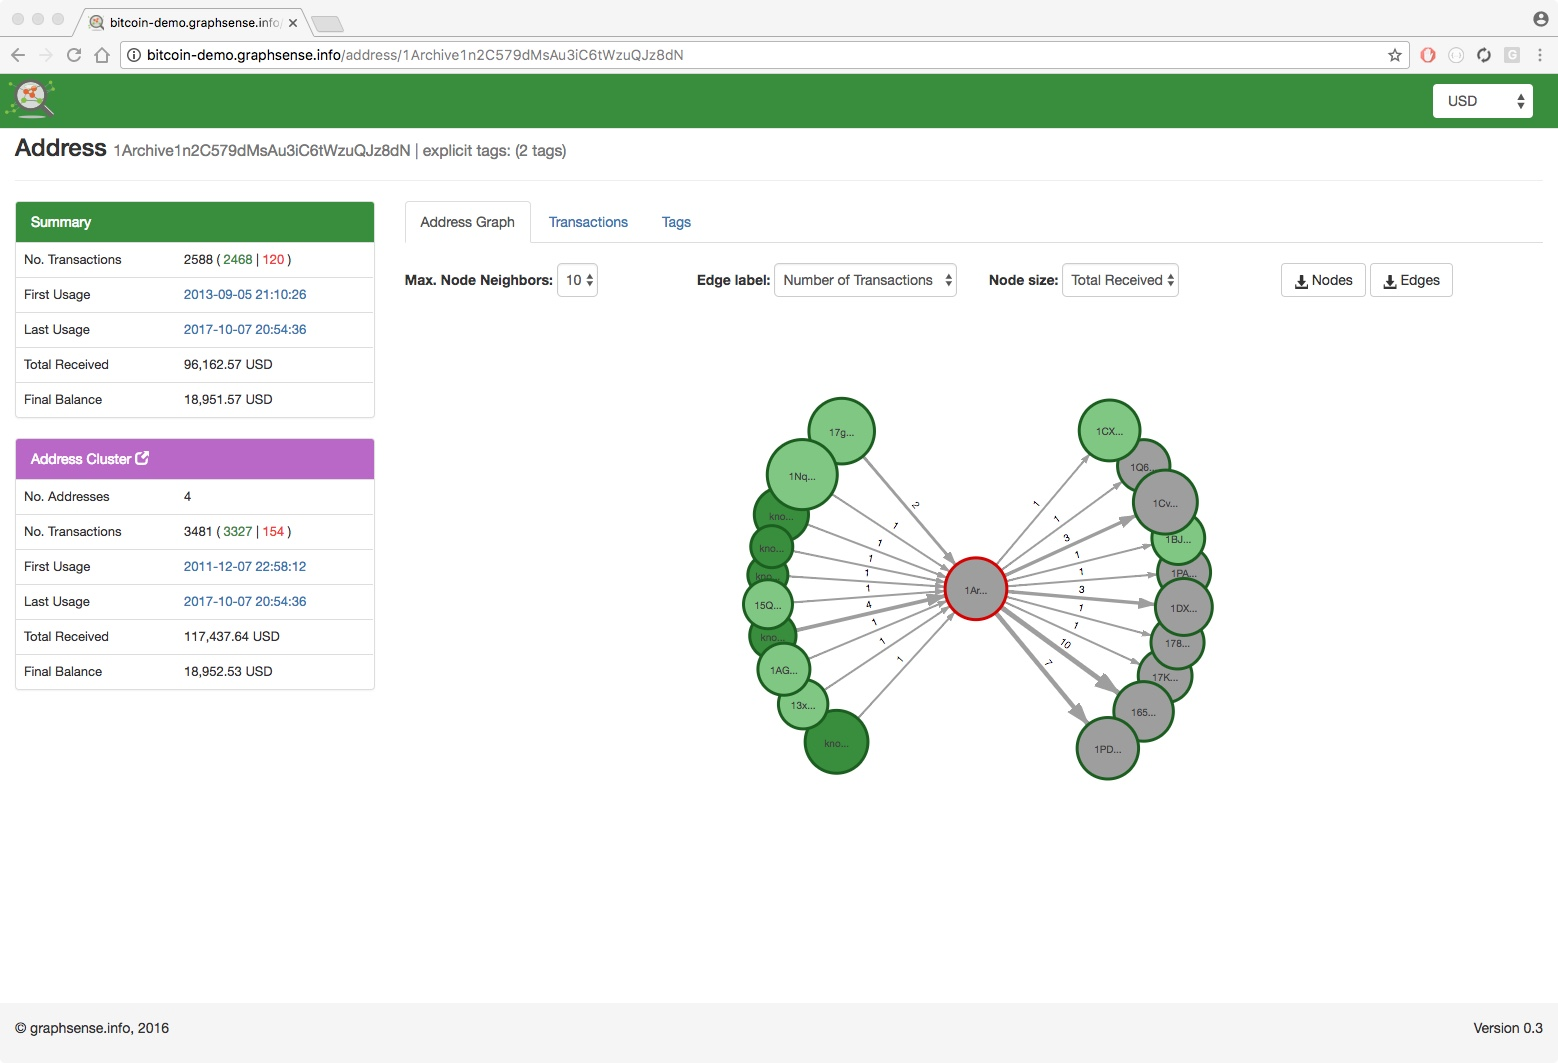
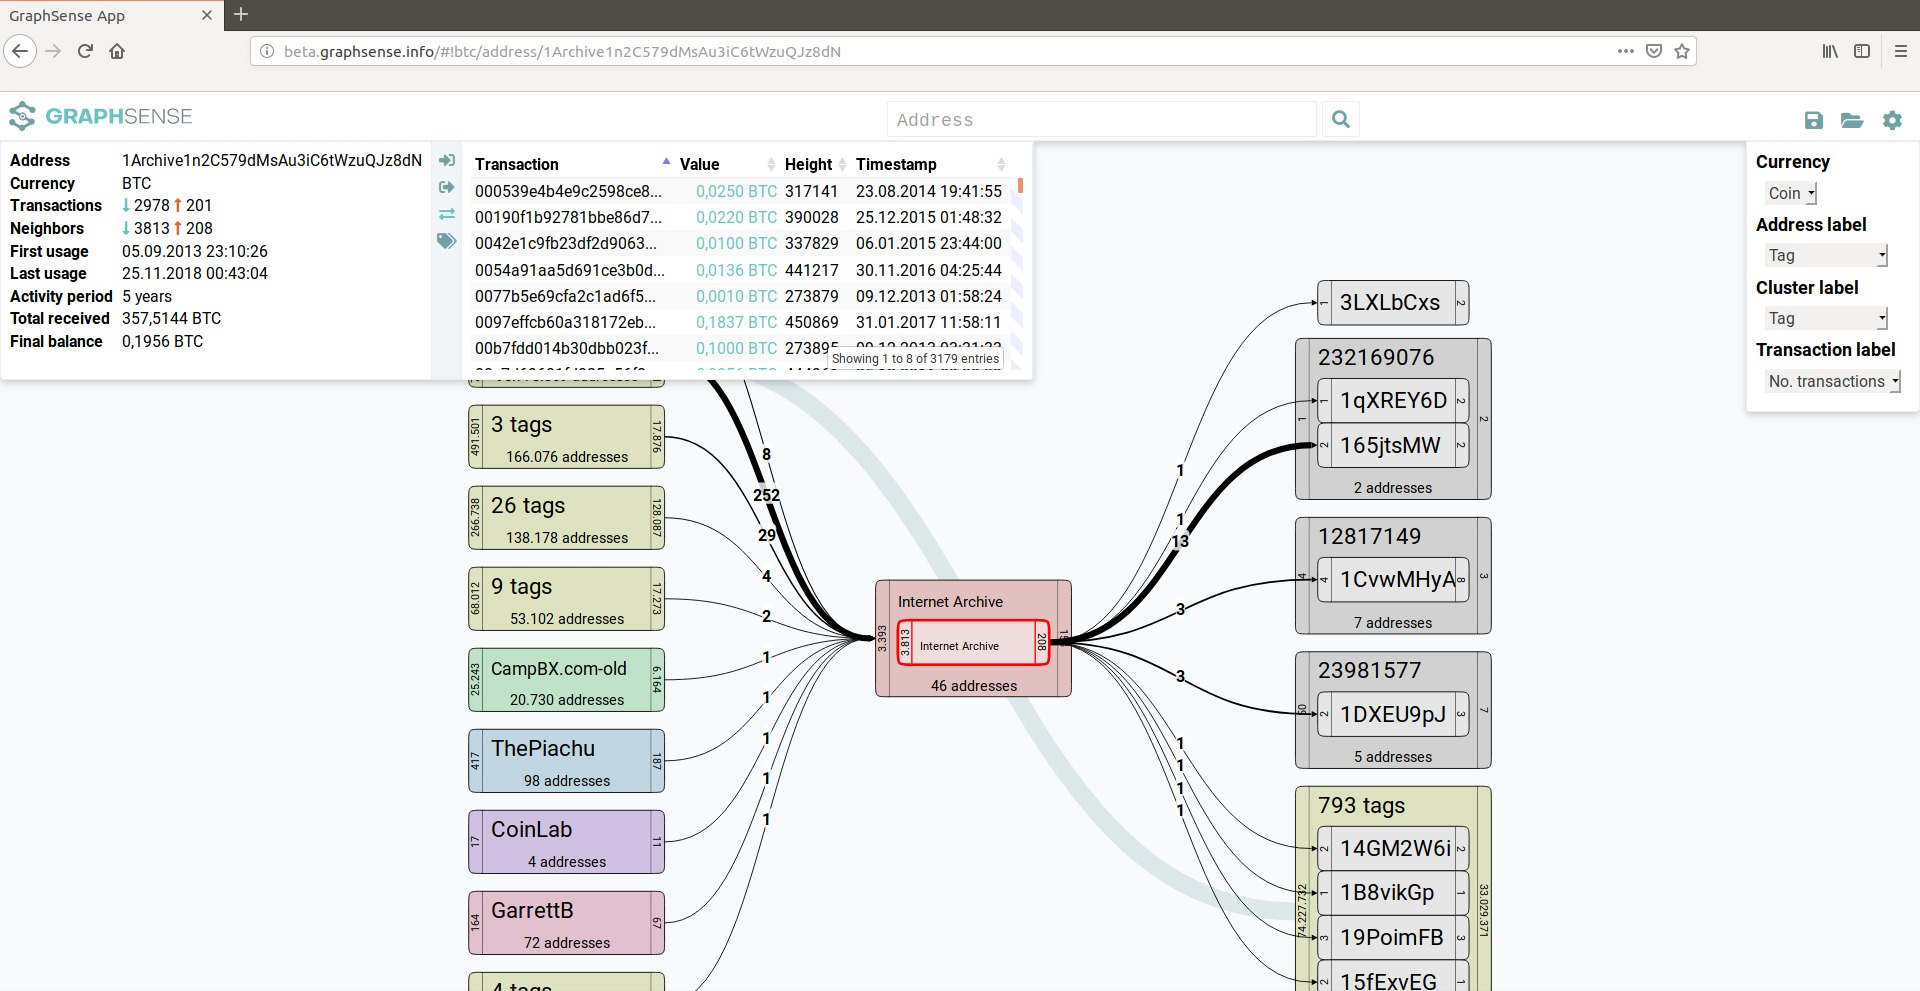
add screenshot and fix typos

diff --git a/src/pages/static/officialpage.html b/src/pages/static/officialpage.html
@@ -21,7 +21,7 @@
     </li>
 
     <li>
-      <p><strong>Macroscopic Analysis</strong>: by directly accessing the underlying, pre-computed database it is possible to map real-world phenonema (e.g., Ransomware) onto network abstractions and run subsequent analytics tasks.</p>
+      <p><strong>Macroscopic Analysis</strong>: by directly accessing the underlying, pre-computed database it is possible to map real-world phenomena (e.g., Ransomware) onto network abstractions and run subsequent analytics tasks.</p>
     </li>
 
     <li>
@@ -44,7 +44,7 @@
 
   <ul>
     <li>
-      <p><a href="https://github.com/graphsense/btc-client">btc-client</a>, <a href="https://github.com/graphsense/bch-client">bch-client</a>, <a href="https://github.com/graphsense/ltc-client">ltc-client</a>, <a href="https://github.com/graphsense/zec-client">zec-client</a>: docker containers encapsuling the most-recent cryptocurrency client versions</p>
+      <p><a href="https://github.com/graphsense/btc-client">btc-client</a>, <a href="https://github.com/graphsense/bch-client">bch-client</a>, <a href="https://github.com/graphsense/ltc-client">ltc-client</a>, <a href="https://github.com/graphsense/zec-client">zec-client</a>: docker containers encapsulating the most-recent cryptocurrency client versions</p>
     </li>
     <li>
       <p><a href="https://github.com/graphsense/graphsense-blocksci">graphsense-blocksci</a>: a dockerized component to synchronize BlockSci data to Apache Cassandra</p>
@@ -98,6 +98,6 @@
     <li>Rainer Stütz</li>
     <li>Mihai Bartha</li>
     <li>Roman Karl</li>
-    <li>Matteo Romiti</li>
+    <li><a href="https://matteoromiti.github.com/">Matteo Romiti</a></li>
   </ul>
 </div>

diff --git a/src/pages/static/about.html b/src/pages/static/about.html
@@ -1,8 +1,8 @@
-<p>GraphSense is cryptocurrency analytics research platfrom, developed under the leadership of the Austrian Institute of Technology, with funding from the Austrian Research Promotion Agency's KIRAS program (Project <a href="http://virtcrime-project.info/">VIRTCRIME</a>) and the European Union's Horizon 2020 research innovation program (Project <a href="https://titanium-project.eu/" target="_blank">TITANIUM</a>).</p>
+<p>GraphSense is cryptocurrency analytics research platform, developed under the leadership of the Austrian Institute of Technology, with funding from the Austrian Research Promotion Agency's KIRAS program (Project <a href="http://virtcrime-project.info/">VIRTCRIME</a>) and the European Union's Horizon 2020 research innovation program (Project <a href="https://titanium-project.eu/" target="_blank">TITANIUM</a>).</p>
 
 <p>GraphSense is provided as Open Source software, under the terms of the MIT license. It can be downloaded free of charge for self-hosting from our GitHub repository.</p>
 
-<p>The Austrian Institute of Technlogy offers free access to a hosted version of the software at demo.graphsense.info and beta.graphsense.info in the spirit of open source and as an act of collegiality. Please refer to our Terms and Conditions of Use for information.</p>
+<p>The Austrian Institute of Technology offers free access to a hosted version of the software at demo.graphsense.info and beta.graphsense.info in the spirit of open source and as an act of collegiality. Please refer to our Terms and Conditions of Use for information.</p>
 
 <h2>Imprint</h2>
 

diff --git a/src/pages/static/privacy.html b/src/pages/static/privacy.html
@@ -5,7 +5,7 @@
 
 <h2>Site Visit Tracking</h2>
 
-<p>Like most Websites, the graphsense.info site tracks site visits to determine the number of people visiting our pages. Although we record data such as device, internet browser and operating system, none of this information personally identifies you.</p>
+<p>Like most Websites, the graphsense.info site tracks site visits to determine the number of people visiting our pages. Although we record data such as device, Internet browser and operating system, none of this information personally identifies you.</p>
 
 <p>The demo instance demo.graphsense.info and beta.graphsense.info does not track site visits.</p>
 